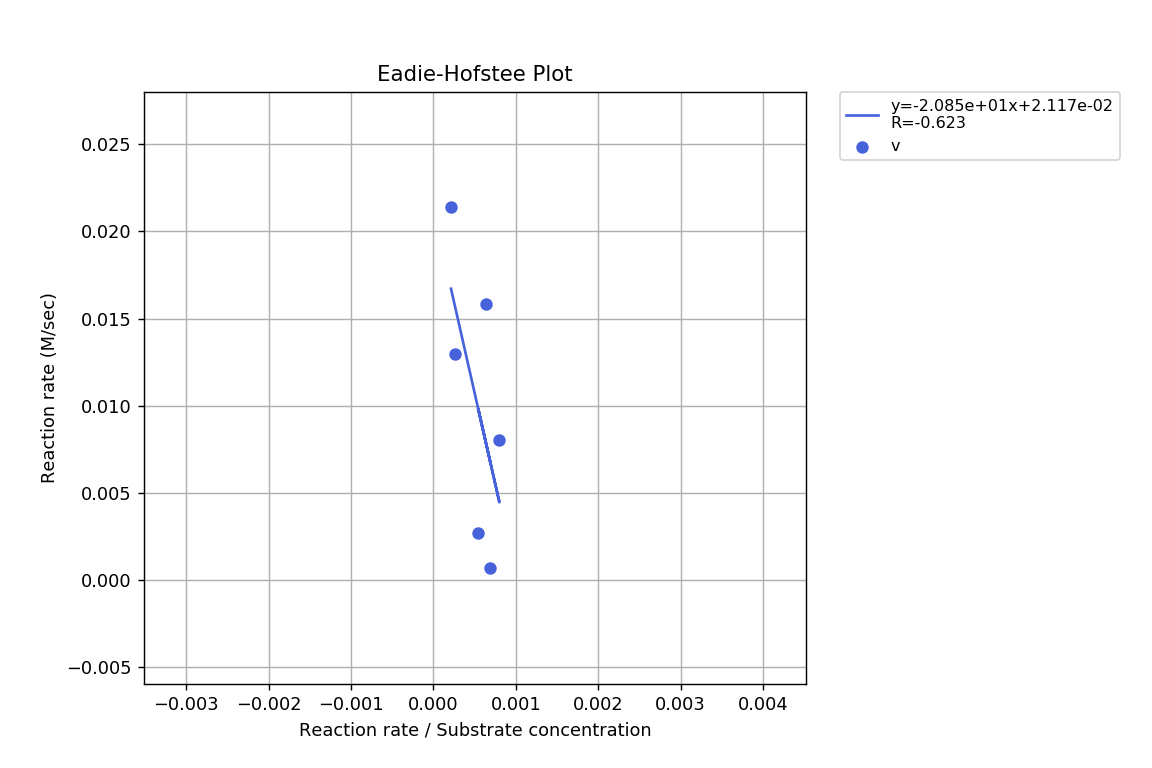
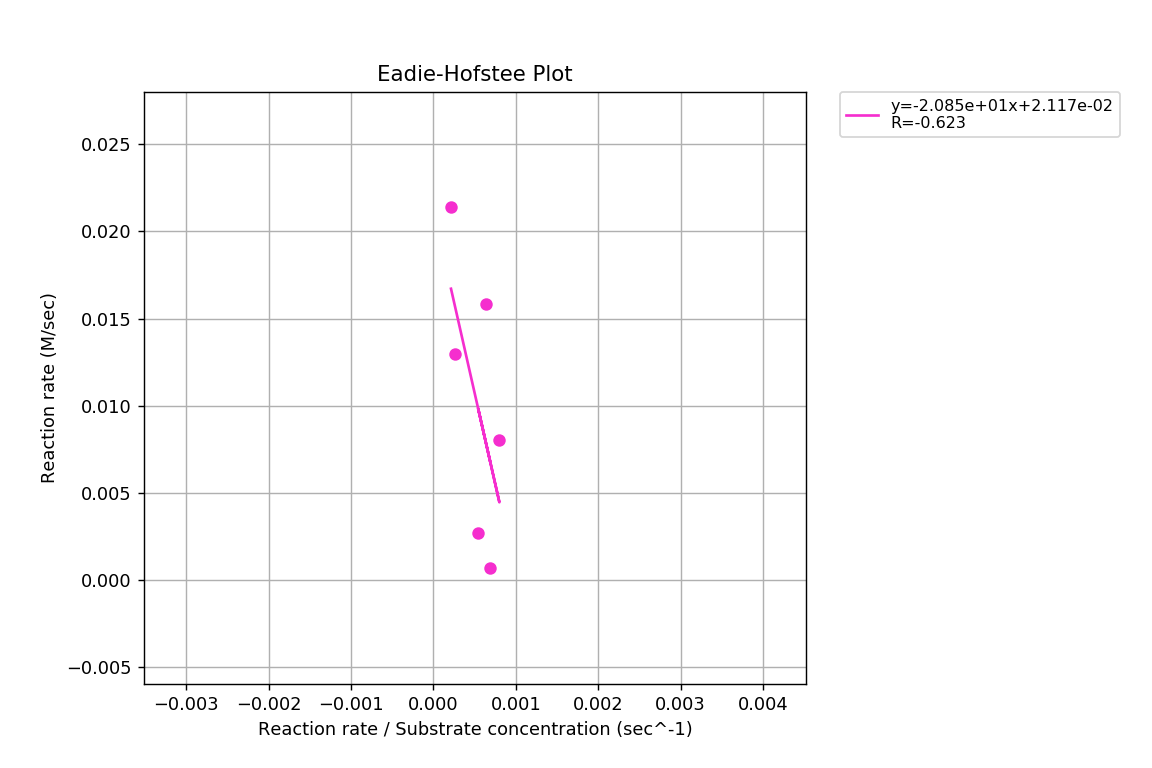
関数のテンプレ化

diff --git a/replace_kaleida.py b/replace_kaleida.py
@@ -1,3 +1,5 @@
+# モジュールのインポート場所を変えるとエラーが起きることがあるので注意
+
 def get_file_name():
     import os, tkinter, tkinter.filedialog, tkinter.messagebox
 
@@ -26,6 +28,8 @@ def get_array_from_xlsx(path):
 
 class Plot_data:
     def __init__(self):
+        self.a = None
+        self.b = None
         self.v_max = None
         self.k_cat = None
         self.k_m = None
@@ -33,7 +37,7 @@ class Plot_data:
         self.rss = None
 
     def calc(self):
-        self.k_cat = self.v_max / (4.0 * 10**(-9))
+        self.k_cat = self.v_max / (4.0 * 10**(-3))
         self.k2 = self.k_cat / self.k_m
 
 def main():
@@ -57,8 +61,6 @@ def main():
         else:
             box.append(array)
 
-    data_array = []
-
     # 吸光度のプロットに必要な変数
     title = 'Absorbance to Time'
     xlabel = 'Time(sec)'
@@ -80,57 +82,52 @@ def main():
         else:
             v0.append(i.fit_values[0])
     v0 = np.array(v0)
-    e492 = 85000*10**(-6) # 勝手に10^-6倍してる
+    e492 = 85000*10**(-6) # 単位をμLに揃える
     v0 /= e492
+
+    # プロットのテンプレとなる関数
+    def plot_and_save(x,y,args,input_mode=None,max_x=None):
+        x = pm2.Data(x)
+        y = [""] + list(y)
+        ys = [pm2.Data(y)]
+        graph = pm2.Graph_master(args)
+        graph.make_graph(x,ys,input_mode,max_x)
+        plt.savefig(graph.output_path)
+        data = Plot_data()
+        for y in ys:
+            data.a = y.fit_values[0]
+            data.b = y.fit_values[1]
+            data.rss = y.rss
+        return data
+
+    data_array = []
 
     # ６点でミカエリスメンテン
     # 変数の定義
     title = 'Michaelis Menten Plot (6 dots)'
     xlabel = 'Substrate concentration (μM)'
-    ylabel = 'Reaction rate (M/sec)'
+    ylabel = 'Reaction rate (μM/sec)'
     output_path = 'day3/MichaelisMenten6'
     args = [title,xlabel,ylabel,output_path,sig_dig]
 
-    # プロット
-    x = pm2.Data(array_s)
-    y = ["v"] + list(v0)
-    y = pm2.Data(y)
-    ys = [y]
-    plt.ylim(min(y.values),max(y.values))
-    graph = pm2.Graph_master(args)
-    graph.make_graph(x,ys,input_mode="3",max_x=500)
-    plt.savefig(graph.output_path)
-    data = Plot_data()
-    for y in ys:
-        data.v_max = y.fit_values[0]
-        data.k_m = y.fit_values[1]
-        data.rss = y.rss
-        data.calc()
+    data = plot_and_save(array_s,v0,args,input_mode="3",max_x=500)
+    data.v_max = data.a
+    data.k_m = data.b
+    data.calc()
     data_array.append(data)
 
     # 4点でミカエリスメンテン
     # 変数の定義
     title = 'Michaelis Menten Plot (4 dots)'
     xlabel = 'Substrate concentration (μM)'
-    ylabel = 'Reaction rate (M/sec)'
+    ylabel = 'Reaction rate (μM/sec)'
     output_path = 'day3/MichaelisMenten4'
     args = [title,xlabel,ylabel,output_path,sig_dig]
 
-    # プロット
-    x = pm2.Data(array_s[:5])
-    y = ["v"] + list(v0[:4])
-    y = pm2.Data(y)
-    ys = [y]
-    plt.ylim(min(y.values),max(y.values))
-    graph = pm2.Graph_master(args)
-    graph.make_graph(x,ys,input_mode="4",max_x=500)
-    plt.savefig(graph.output_path)
-    data = Plot_data()
-    for y in ys:
-        data.v_max = y.fit_values[0]
-        data.k_m = y.fit_values[1]
-        data.rss = y.rss
-        data.calc()
+    data = plot_and_save(array_s[:5],v0[:4],args,input_mode="3",max_x=500)
+    data.v_max = data.a
+    data.k_m = data.b
+    data.calc()
     data_array.append(data)
 
     # Lineweaver-Burk Plot
@@ -138,6 +135,7 @@ def main():
     var_x = np.array(array_s[1:])
     var_x = 1 / var_x
     var_y = 1 / v0
+    var_x = [array_s[0]] + list(var_x)
 
     # 変数の定義
     title = 'Lineweaver-Burk Plot'
@@ -146,22 +144,10 @@ def main():
     output_path = 'day3/Lineweaver-Burk'
     args = [title,xlabel,ylabel,output_path,sig_dig]
 
-    # プロット
-    var_x = [array_s[0]] + list(var_x)
-    x = pm2.Data(var_x)
-    y = ["v"] + list(var_y)
-    y = pm2.Data(y)
-    ys = [y]
-    plt.ylim(min(y.values),max(y.values))
-    graph = pm2.Graph_master(args)
-    graph.make_graph(x,ys,input_mode="2",max_x=500)
-    plt.savefig(graph.output_path)
-    data = Plot_data()
-    for y in ys:
-        data.v_max = 1 / y.fit_values[1]
-        data.k_m = y.fit_values[0] / y.fit_values[1]
-        data.rss = y.rss
-        data.calc()
+    data = plot_and_save(var_x,var_y,args,input_mode="2")
+    data.v_max = 1 / data.b
+    data.k_m = data.a / data.b
+    data.calc()
     data_array.append(data)
 
     # Eadie-Hofstee Plot
@@ -169,30 +155,19 @@ def main():
     s = np.array(array_s[1:])
     var_y = v0
     var_x = v0 / s
+    var_x = [array_s[0]] + list(var_x)
 
     # 変数の定義
     title = 'Eadie-Hofstee Plot'
-    xlabel = 'Reaction rate / Substrate concentration'
+    xlabel = 'Reaction rate / Substrate concentration (sec^-1)'
     ylabel = 'Reaction rate (M/sec)'
     output_path = 'day3/Eadie-Hofstee'
     args = [title,xlabel,ylabel,output_path,sig_dig]
 
-    # プロット
-    var_x = [array_s[0]] + list(var_x)
-    x = pm2.Data(var_x)
-    y = ["v"] + list(var_y)
-    y = pm2.Data(y)
-    ys = [y]
-    plt.xlim(min(x.values),max(x.values))
-    graph = pm2.Graph_master(args)
-    graph.make_graph(x,ys,input_mode="2")
-    plt.savefig(graph.output_path)
-    data = Plot_data()
-    for y in ys:
-        data.v_max = y.fit_values[1]
-        data.k_m = - y.fit_values[0]
-        data.rss = y.rss
-        data.calc()
+    data = plot_and_save(var_x,var_y,args,input_mode="2")
+    data.v_max = data.b
+    data.k_m = - data.a
+    data.calc()
     data_array.append(data)
 
     def str_i(num):
@@ -200,8 +175,6 @@ def main():
 
     with open('output/day3/compare-k.csv',mode='w') as f:
         f.write(',M-M 6,M-M 4,L-B,E-H\n')
-        def join_values(i):
-            return
         k_cat = ",".join([str_i(i.k_cat) for i in data_array])
         f.write('k_cat,{}\n'.format(k_cat))
         k_m = ",".join([str_i(i.k_m) for i in data_array])

diff --git a/plot_master2.py b/plot_master2.py
@@ -142,7 +142,10 @@ class Graph_master:
             input_text += '近似直線が不要な場合はそれ以外の入力をしてください\n>> '
             input_mode = input(input_text)
         for var_y in ys:
-            plt.scatter(var_x.values,var_y.values,label=var_y.label,c=var_y.color)
+            if var_y.label:
+                plt.scatter(var_x.values,var_y.values,label=var_y.label,c=var_y.color)
+            else:
+                plt.scatter(var_x.values,var_y.values,c=var_y.color)
             if input_mode ==  "1":
                 var_y.fit_type = fitting_types[0]
             elif input_mode == "2":
@@ -152,6 +155,12 @@ class Graph_master:
             elif input_mode == "4":
                 var_y.fit_type = fitting_types[3]
             self.plot_fitting(var_x,var_y,max_x)
+
+        # グラフの範囲の調節
+        # min_x = min(var_x.values) * 0.98
+        # if not max_x:
+        #     max_x = max(var_x.values) * 1.02
+        # plt.xlim(min_x,max_x)
 
         # グラフの外観をいい感じに調節しているのはここ
         plt.legend(bbox_to_anchor=(1.05, 1), loc='upper left', borderaxespad=0, fontsize=9)
